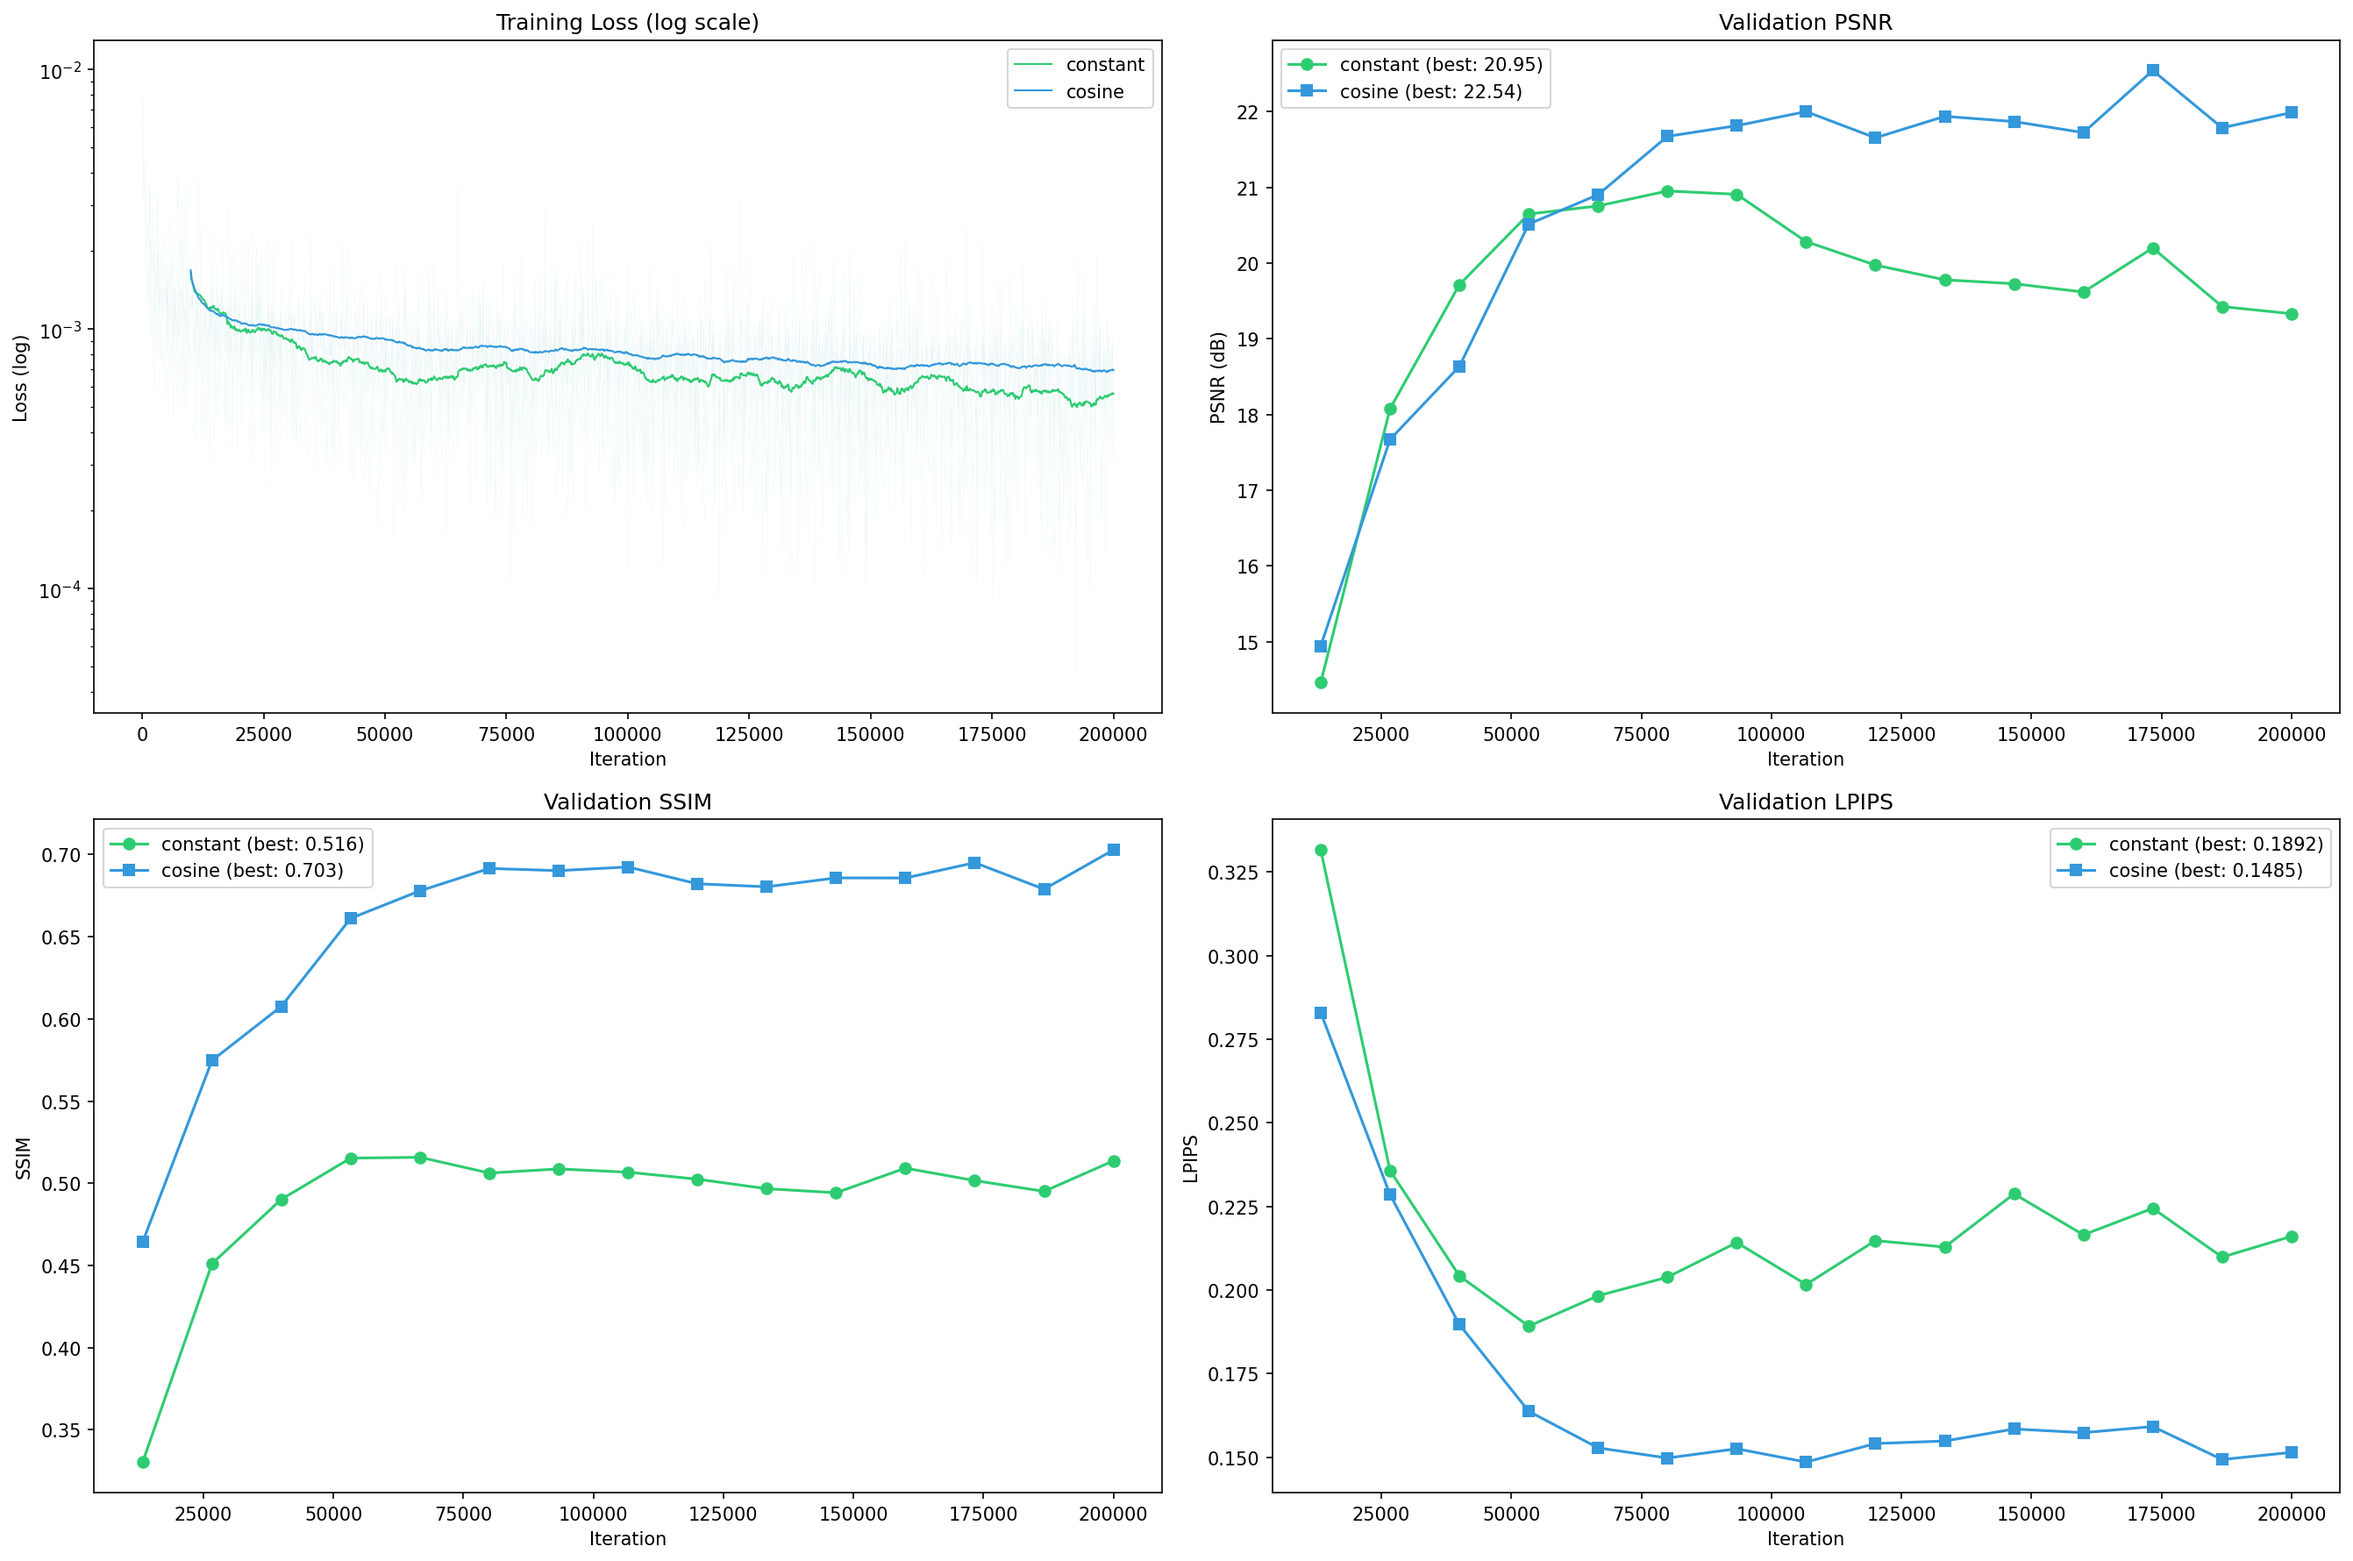
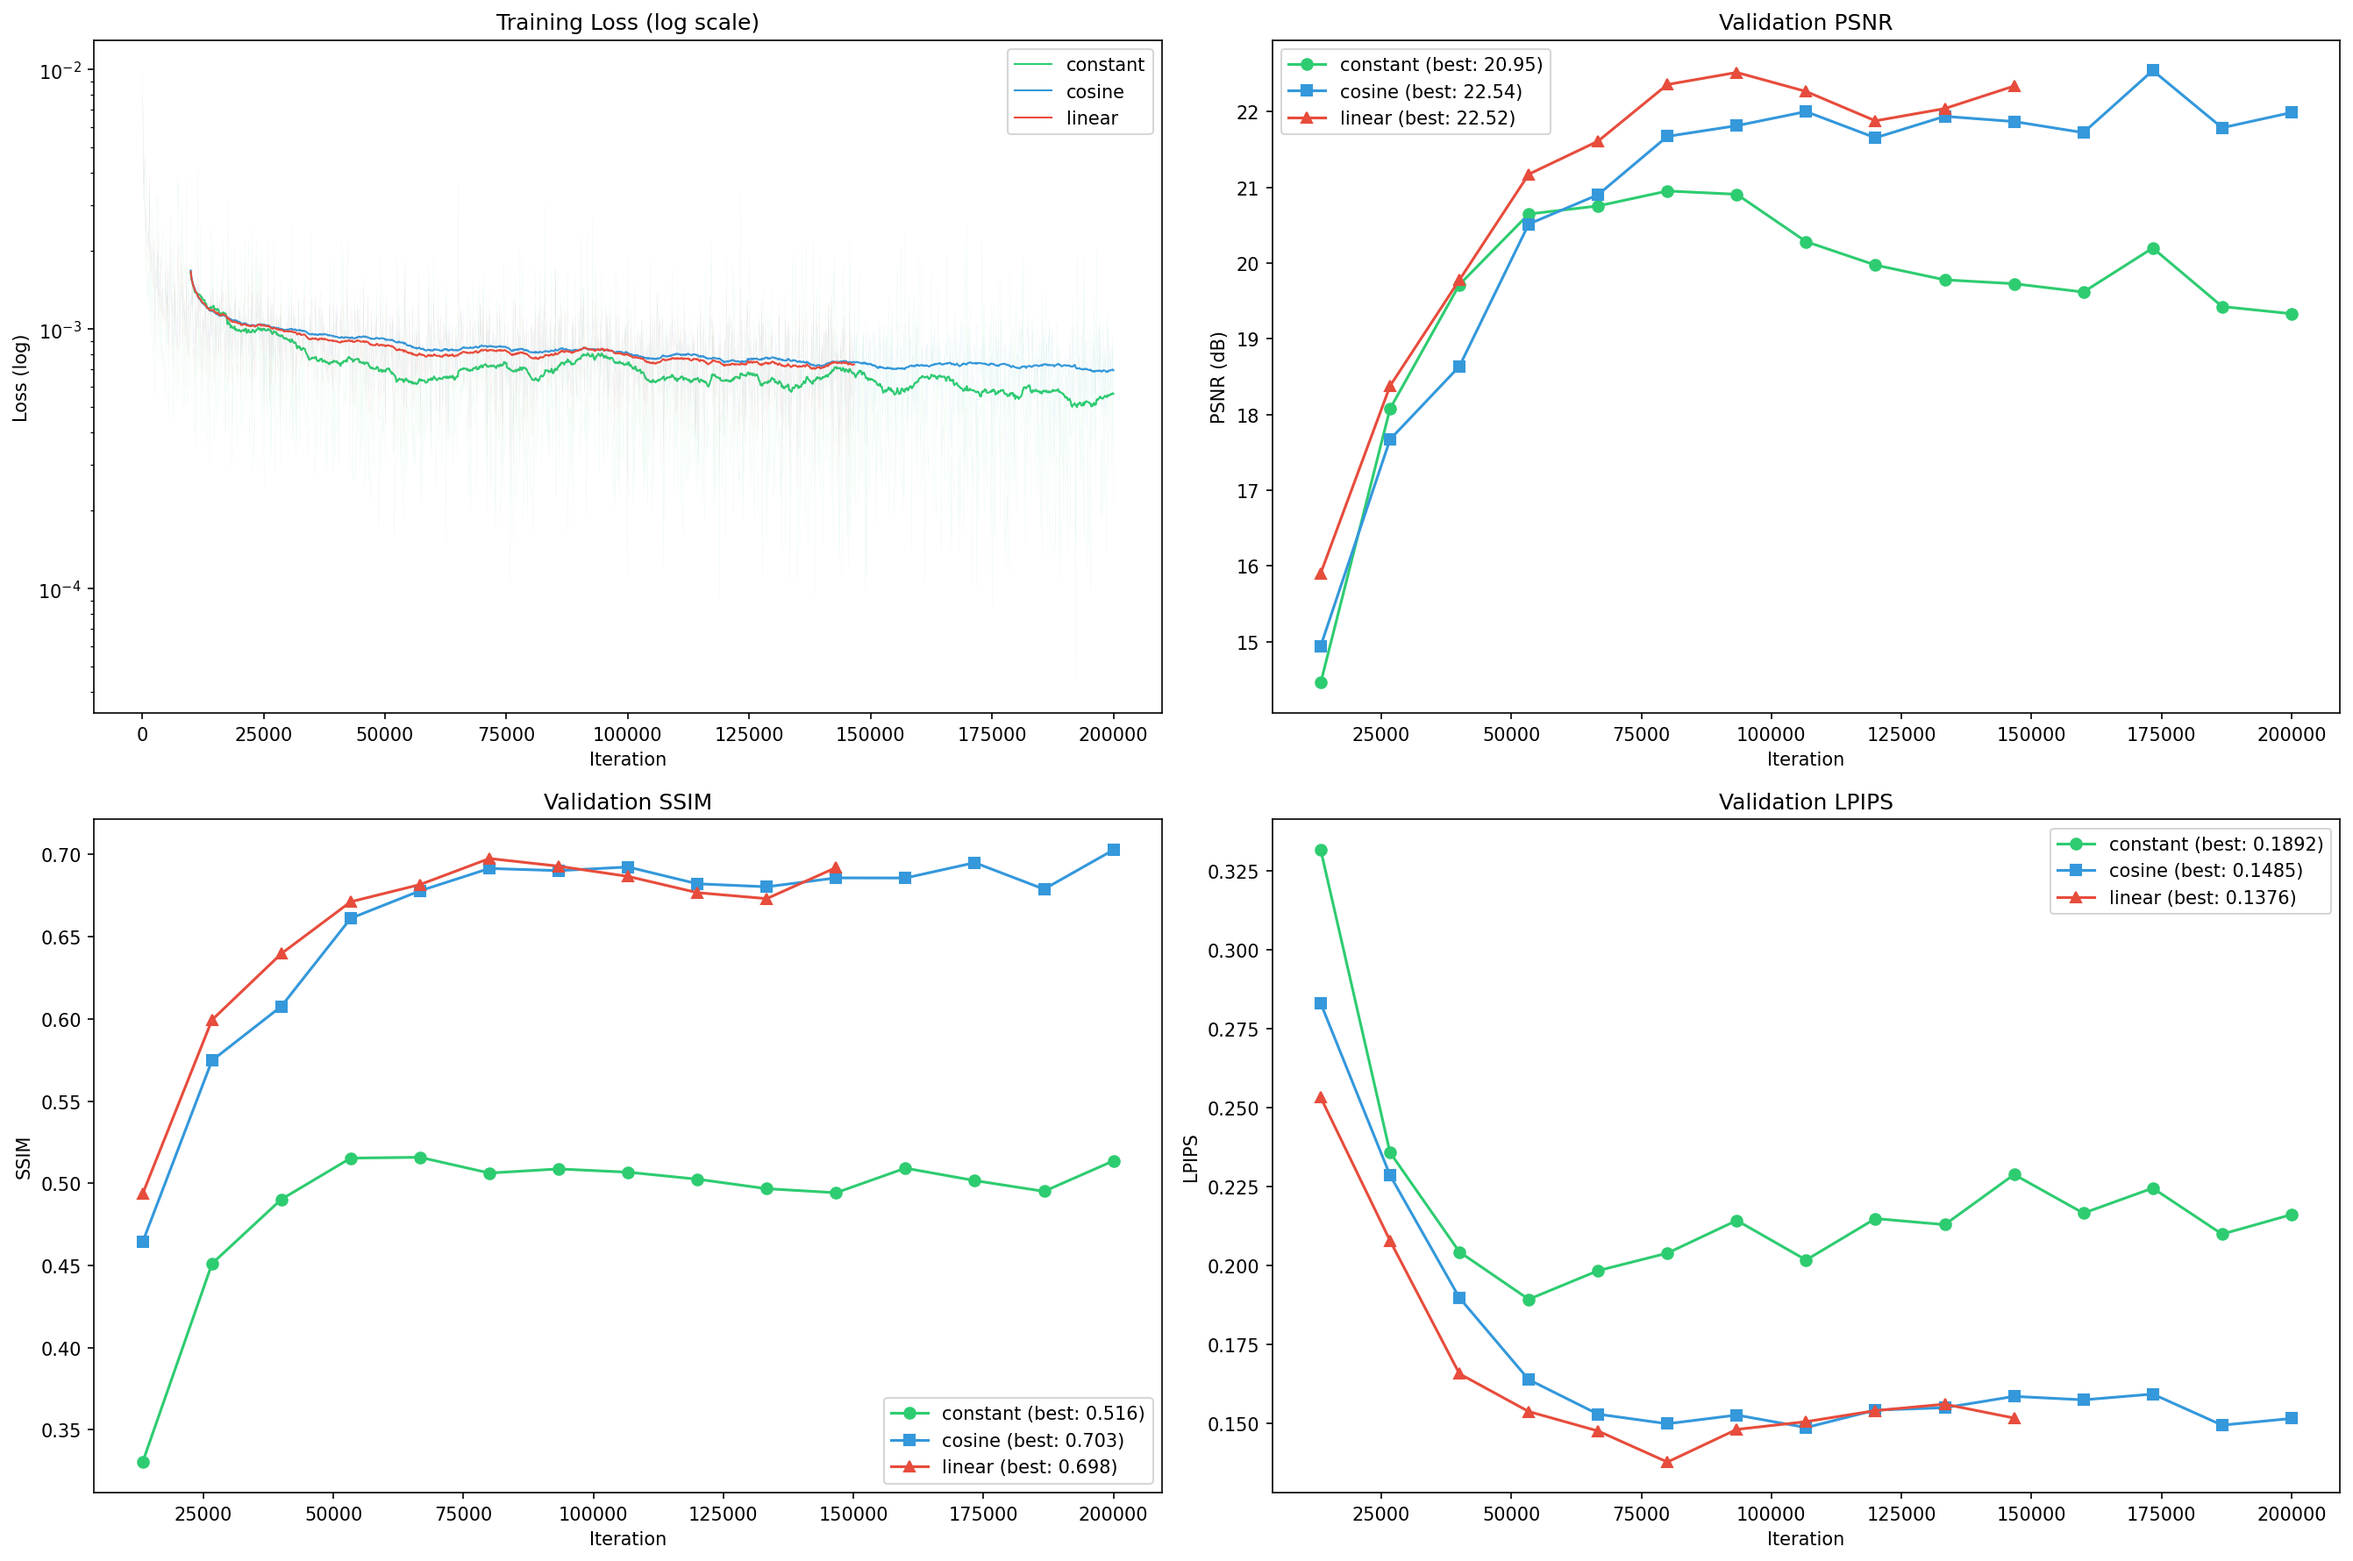
init

diff --git a/tasks/deraining/train.py b/tasks/deraining/train.py
@@ -36,19 +36,25 @@ def parse_args():
 def main():
     args = parse_args()
 
-    config = ExperimentConfig(
-        exp_name=args.exp_name,
-    )
-    config.sde.schedule = args.schedule
-    config.train.total_iterations = args.total_iterations
-    config.train.batch_size = args.batch_size
-    config.train.patch_size = args.patch_size
-    config.train.lr = args.lr
-    config.train.gpu = args.gpu
-    config.train.seed = args.seed
-    config.train.num_val = args.num_val
-    config.data.dataset = args.dataset
-    config.data.data_root = args.data_root
+    if args.resume:
+        # Resume: load config from saved config.json, only override runtime params
+        config_path = os.path.join("outputs", args.exp_name, "log", "config.json")
+        config = ExperimentConfig.from_json(config_path)
+        config.exp_name = args.exp_name
+        config.train.gpu = args.gpu
+        config.data.data_root = args.data_root or config.data.data_root
+    else:
+        config = ExperimentConfig(exp_name=args.exp_name)
+        config.sde.schedule = args.schedule
+        config.train.total_iterations = args.total_iterations
+        config.train.batch_size = args.batch_size
+        config.train.patch_size = args.patch_size
+        config.train.lr = args.lr
+        config.train.gpu = args.gpu
+        config.train.seed = args.seed
+        config.train.num_val = args.num_val
+        config.data.dataset = args.dataset
+        config.data.data_root = args.data_root
 
     trainer = Trainer(config)
 
